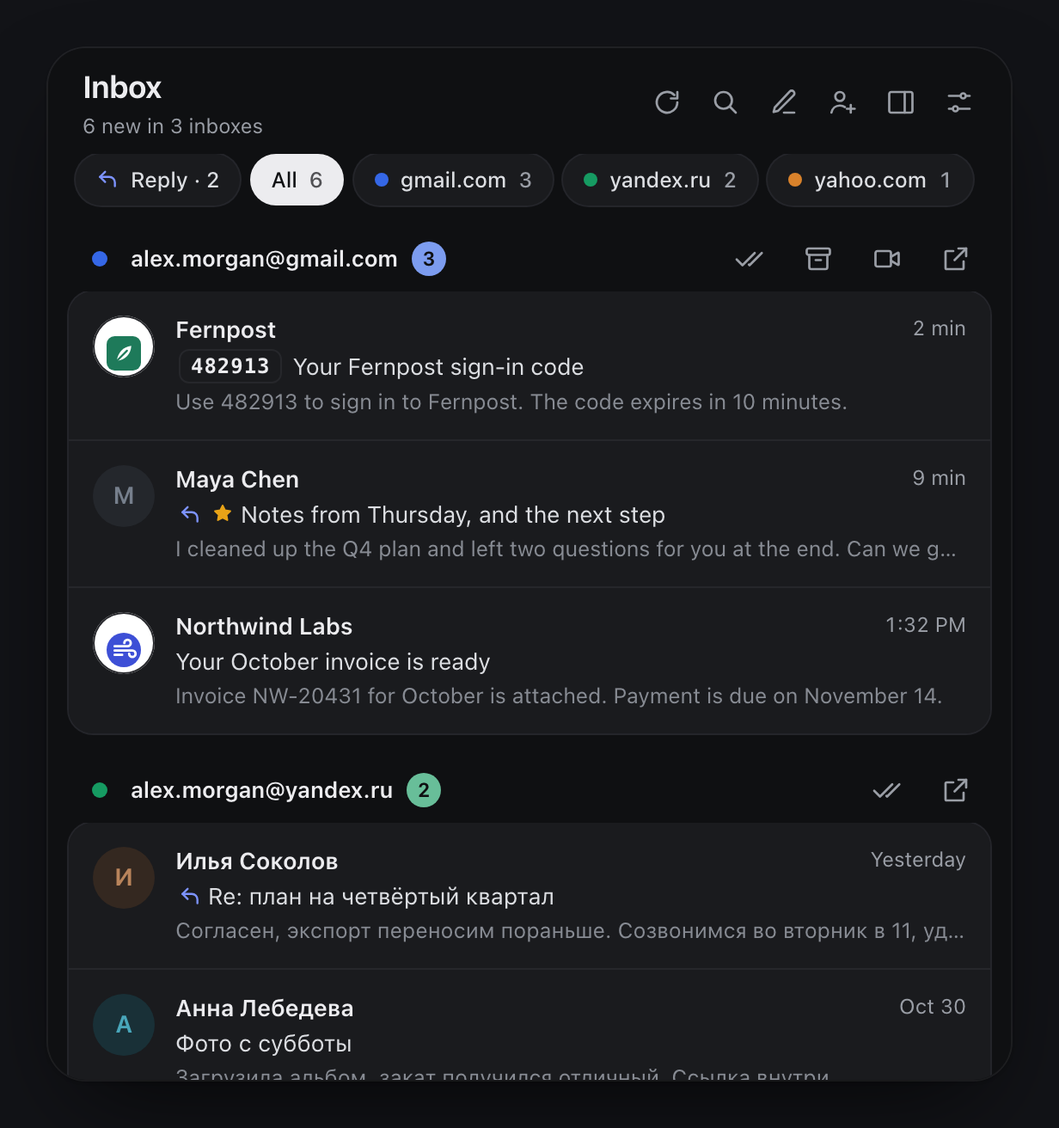
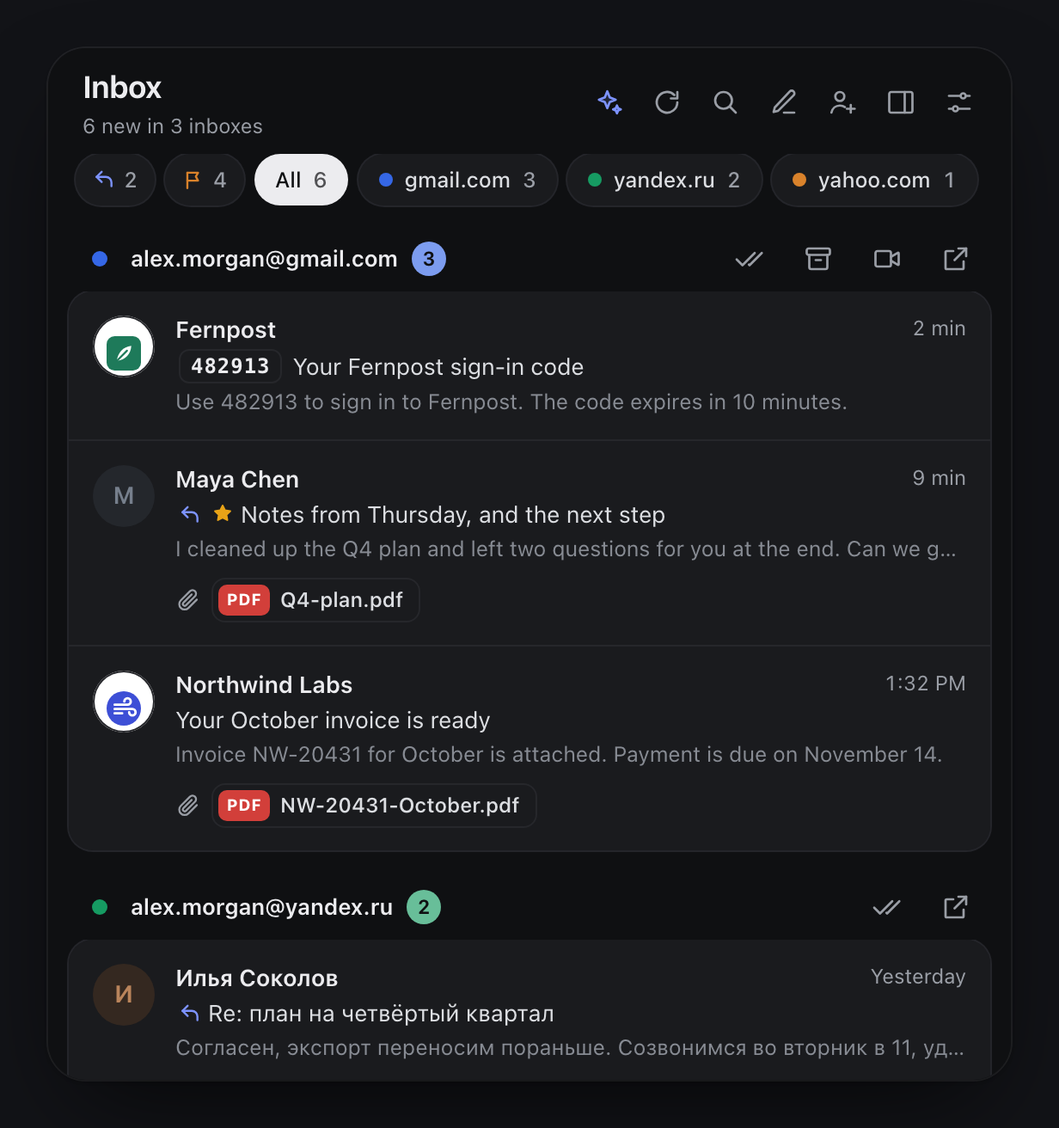
README, landing page and privacy policy for the assistant, the ChatGPT plan, Z.ai and attachments
What the assistant does and where it runs, what each request sends, the ChatGPT sign-in and
its loopback callback that never reaches the network, Z.ai, why a Claude subscription cannot
be used, and the attachments read ahead for the list. New pictures of the assistant, and the
list and reader with attachments and the sorting chips.

diff --git a/docs/privacy.html b/docs/privacy.html
@@ -30,14 +30,15 @@
 
   <main class="doc wrap">
     <h1>Privacy policy</h1>
-    <p class="date">Last updated: 2026-11-01</p>
+    <p class="date">Last updated: 2026-11-02</p>
 
-    <p>Mail Deck has no servers, no analytics and no tracking. Nothing it reads leaves your browser except the requests it sends to the mail services themselves: to Google for Gmail, and to each other mail service you turn on. If you turn on the AI assistant with your own OpenAI or Anthropic key, the mail you ask about also goes to that provider, as described below.</p>
+    <p>Mail Deck has no servers, no analytics and no tracking. Nothing it reads leaves your browser except the requests it sends to the mail services themselves: to Google for Gmail, and to each other mail service you turn on. If you turn on the AI assistant with your ChatGPT plan or your own Anthropic, OpenAI or Z.ai key, the mail it works on also goes to that provider, as described below.</p>
 
     <h2>What it reads from Gmail</h2>
     <ul>
       <li><strong>Unread mail.</strong> Mail Deck reads the Gmail Atom feed (<code>mail.google.com/mail/u/N/feed/atom</code>) for each Google account you are signed in to in this browser. The browser sends your existing Google session cookies with those requests. Mail Deck never asks for, sees or stores your password.</li>
       <li><strong>Message text.</strong> When you open a message in the panel, or point at it, Mail Deck loads that conversation’s print view from <code>mail.google.com</code> and shows it in the panel, with links to its attachments.</li>
+      <li><strong>Attachments.</strong> To show a message’s files on its line in the list before you open it, Mail Deck loads the print view of each Gmail conversation the list shows, two at a time, and reads only the names and links of its attachments. Loading it does not mark the mail as read, and its pictures are not loaded. The names and links are kept in session storage until the browser closes.</li>
       <li><strong>Gmail search.</strong> When the panel opens, Mail Deck asks Gmail’s own search on <code>mail.google.com</code> for the unread mail of each inbox, to show which mail is starred and the mail past the 20 the feed lists. When you type in the panel’s search field, that query goes to the same search of each of your inboxes.</li>
       <li><strong>Account pictures.</strong> About once a week Mail Deck loads each signed-in account’s Gmail page from <code>mail.google.com</code> to find that account’s own picture, which the panel then shows from Google’s image server (<code>lh3.googleusercontent.com</code>).</li>
       <li><strong>Gmail’s action token.</strong> To mark mail as read, archive, delete or report spam, Mail Deck reads the <code>GMAIL_AT</code> cookie that Gmail sets for <code>mail.google.com</code> and sends it back to <code>mail.google.com</code> with the action, the same way the Gmail web page does.</li>
@@ -60,15 +61,33 @@
     <h2>The page you are on</h2>
     <p>When you open the panel with its toolbar button or its keyboard shortcut, Chrome lets Mail Deck read the address of the tab you are on, for that tab only (the <code>activeTab</code> permission). Mail Deck takes the site’s domain from it and shows, at the top of the panel, the unread mail whose sender is that site, with a one-time code ready to copy. The comparison happens inside the panel. The address is not stored and is not sent anywhere. In the side panel this works only for tabs on which you used the toolbar button.</p>
     <h2>AI assistant</h2>
-    <p>The AI assistant is off until you turn it on in Settings → AI. It can summarize the conversation you are reading, with its key points, what it asks of you and its dates (with links that open Google Calendar’s own “new event” page), and it can mark unread mail that waits for your reply. You choose where it runs:</p>
+    <p>The AI assistant is off until you turn it on. Its buttons show in the panel from the start and, while it is off, only offer to turn it on (Settings → AI can hide them): nothing is sent to any provider before you choose one. Once on, it can:</p>
     <ul>
-      <li><strong>On this computer.</strong> Chrome’s built-in model runs on your device, and nothing is sent anywhere. Chrome downloads the model from Google once, when you press Download.</li>
-      <li><strong>OpenAI or Anthropic, with your own API key.</strong> When you connect a provider, Chrome asks you to allow its site (<code>api.openai.com</code> or <code>api.anthropic.com</code>); until then Mail Deck sends it nothing. Requests go from your browser straight to that provider, with your key; Mail Deck has no servers in between. A summary sends the text of that conversation (sender names, dates and message text) with its subject, and the current date, time and time zone so that dates such as “tomorrow at 3” can be read. It is sent when you press Summary, or by itself for long mail if you chose that. “Waiting for your reply” sends the sender, subject and preview of unread mail from the last 14 days, up to 20 messages at a time, and leaves out mail from automated senders such as no-reply addresses. The provider handles this data under its own terms for API use: <a href="https://openai.com/policies/row-privacy-policy/">OpenAI</a>, <a href="https://www.anthropic.com/legal/privacy">Anthropic</a>.</li>
+      <li>summarize the conversation you are reading, with its key points, what it asks of you and its dates (with links that open Google Calendar’s own “new event” page);</li>
+      <li>draft a reply to it, answer a question about it, or translate it;</li>
+      <li>take a request in your own words in the assistant (“when is my flight?”, “invoices from October”, “write to Anna that…”): find the mail with Gmail’s search in your accounts and among the other services’ unread mail, answer from what it found, sum up your unread mail, or draft a new mail;</li>
+      <li>sort unread mail into mail waiting for your reply, important mail, and newsletters you can clear without reading.</li>
     </ul>
-    <p>Your API key is kept only in this browser’s extension storage on your device (<code>chrome.storage.local</code>). It is never part of a settings backup or of Chrome sync, and it is sent only to its own provider. Disconnect removes the key and Chrome’s access to the provider. Summaries are kept in session storage, in memory only, until the browser closes. Whether a mail waits for your reply (yes or no, and a few words why) is kept on your device for 30 days, so the same mail is not sent again.</p>
+    <p>A draft only ever opens in your mail service’s compose window, or is copied: the assistant never sends mail for you.</p>
+    <p>You choose where it runs:</p>
+    <ul>
+      <li><strong>On this computer.</strong> Chrome’s built-in model runs on your device, and nothing is sent anywhere. Chrome downloads the model from Google once, from your click.</li>
+      <li><strong>Your ChatGPT plan.</strong> <strong>Continue with ChatGPT</strong> signs in with OpenAI’s official “Sign in with ChatGPT” for open-source apps (OAuth with PKCE). Chrome first asks you to allow <code>auth.openai.com</code> and <code>api.openai.com</code>, and <code>127.0.0.1</code>; until then Mail Deck sends OpenAI nothing. OpenAI sends you back to <code>http://127.0.0.1:1455/auth/callback</code> after you sign in, an address on your own computer where nothing listens: a Chrome rule (<code>declarativeNetRequest</code>, for that one address, removed when the sign-in ends or after 15 minutes) takes that visit to Mail Deck’s own page instead, so the sign-in code never reaches the network or any program on your computer, and Mail Deck then gives back its access to <code>127.0.0.1</code>. Mail Deck checks the identity token against OpenAI’s published keys and keeps the tokens OpenAI issues (an access token renewed every hour, a refresh token and the identity token), with your account’s email address, shown to say which account is signed in, and an account id it does not show. Requests then go to <code>api.openai.com</code> with them, and use the usage included in your ChatGPT plan, which you manage in ChatGPT’s settings. Signing out revokes the sign-in at OpenAI, deletes the tokens here and gives back Chrome’s access to <code>auth.openai.com</code> (and to <code>api.openai.com</code>, unless an OpenAI key still uses it); if OpenAI does not confirm the revocation, Mail Deck says so, and you can disconnect it in your ChatGPT settings.</li>
+      <li><strong>Anthropic, OpenAI or Z.ai, with your own API key.</strong> When you connect a provider, Chrome asks you to allow its site (<code>api.anthropic.com</code>, <code>api.openai.com</code> or <code>api.z.ai</code>); until then Mail Deck sends it nothing.</li>
+    </ul>
+    <p>Requests go from your browser straight to that provider; Mail Deck has no servers in between. Each request sends only what it needs, with the current date, time and time zone so that dates such as “tomorrow at 3” can be read:</p>
+    <ul>
+      <li>a summary, a reply, a translation or a question about a mail: the text of that conversation (sender names, dates and message text) and its subject, when you ask (or, for summaries, by itself for long mail if you chose that);</li>
+      <li>a request to the assistant: your words, then the sender, subject, date and text of the first few mails the search found and the sender, subject and preview of the rest, up to 30;</li>
+      <li>“what’s important”: the sender, subject and preview of your unread mail, up to 60;</li>
+      <li>sorting: the sender, subject and preview of unread mail from the last 14 days, 20 messages at a time, from senders other than your own addresses.</li>
+    </ul>
+    <p>The provider handles this data under its own terms: <a href=“https://openai.com/policies/row-privacy-policy/”>OpenAI</a>, <a href=“https://www.anthropic.com/legal/privacy”>Anthropic</a>, <a href=“https://docs.z.ai/legal-agreement/privacy-policy”>Z.ai</a>.</p>
+    <p>Your API keys and the ChatGPT sign-in (its tokens, the app id OpenAI issued to this browser, an anonymous random id of this browser that OpenAI asks for, and your account’s email address) are kept only in this browser’s extension storage on your device (<code>chrome.storage.local</code>). They are never part of a settings backup or of Chrome sync, never shown in diagnostics, and sent only to their own provider. Disconnect removes them and Chrome’s access to the provider. Summaries are kept in session storage, in memory only, until the browser closes, and so is the assistant’s conversation. How a mail was sorted (waiting for a reply, important or newsletter, and a few words why) is kept on your device for 30 days, so the same mail is not sent again.</p>
+    <p>Translation by Chrome’s own translator (<strong>Translate from …</strong> in an open message) runs on your computer and needs no assistant: Chrome may download a language pack from Google once, from your click, and nothing of the mail leaves your device.</p>
 
     <h2>Where it goes</h2>
-    <p>To the mail services themselves: <code>mail.google.com</code> for Gmail, and the sites above for each other service you turn on. A service’s mail, addresses and tokens go only to that service. To the AI provider you connected, if you did, as described above. And to Google in two more cases:</p>
+    <p>To the mail services themselves: <code>mail.google.com</code> for Gmail, and the sites above for each other service you turn on. A service’s mail, addresses and tokens go only to that service. To the AI provider you chose, if you did, as described above. And to Google in two more cases:</p>
     <ul>
       <li><strong>Sender icons.</strong> For mail in your Gmail inboxes, the panel shows the sender’s site icon from Google’s icon service (<code>www.google.com/s2/favicons</code>), which receives the sender’s domain, such as <code>github.com</code>, never an address or a message. Like any request your browser makes to Google, it may carry your Google cookies. Mail of the other services gets no icon from Google. “Show sender logos” in settings turns this off.</li>
       <li><strong>Chrome sync.</strong> If you turn on the settings copy in Chrome sync, your Mail Deck settings are stored with <code>chrome.storage.sync</code>, which Chrome keeps in your Google account like your other synced data. It is off by default.</li>

diff --git a/docs/index.html b/docs/index.html
@@ -121,9 +121,9 @@
     <section class="block wrap">
       <h2>A closer look</h2>
       <div class="screens">
-        <img src="images/screens/2-summary.webp" width="1280" height="800" loading="lazy" alt="An open message with its AI summary above it: the key points, a thing to do, and two dates, each with Add to Google Calendar">
-        <img src="images/screens/3-site.webp" width="1280" height="800" loading="lazy" alt="The panel opened over a website: that site’s mail on top, from two inboxes, with its sign-in code ready to copy">
-        <img src="images/screens/4-later.webp" width="1280" height="800" loading="lazy" alt="The Remind me later menu over a message">
+        <img src="images/screens/2-assistant.webp" width="1280" height="800" loading="lazy" alt="The AI assistant: what is important in the unread mail, with a numbered link to each mail, and an answer about a plan review">
+        <img src="images/screens/3-reply.webp" width="1280" height="800" loading="lazy" alt="An open message with Reply with AI: quick choices and a drafted reply, ready to open in Gmail">
+        <img src="images/screens/4-site.webp" width="1280" height="800" loading="lazy" alt="The panel opened over a website: that site’s mail on top, from two inboxes, with its sign-in code ready to copy">
       </div>
     </section>
 
@@ -137,6 +137,10 @@
         <li>
           <h3>Read in place</h3>
           <p>A Gmail conversation opens whole in the panel, attachments included. Mail from Yahoo, AOL, Yandex and Mail.ru opens there too; Proton’s opens on Proton’s site.</p>
+        </li>
+        <li>
+          <h3>Attachments you can’t miss</h3>
+          <p>A Gmail message’s files show on its line before you open it, tagged PDF, sheet or picture; a click opens the file alone. The open message lists them under the sender, with Download.</p>
         </li>
         <li>
           <h3>Mail from the site you’re on</h3>
@@ -186,14 +190,16 @@
       <div class="works">
         <ul class="services">
           <li>Chrome’s built-in model</li>
-          <li>OpenAI</li>
+          <li>ChatGPT plan</li>
           <li>Anthropic</li>
+          <li>OpenAI</li>
+          <li>Z.ai GLM</li>
         </ul>
-        <p>Off until you turn it on in Settings → AI. In an open message, Summary puts the conversation in a few lines above it: the key points, what it asks of you, and its dates, each with a link that adds it to Google Calendar. Waiting for your reply gathers, under one chip, the unread mail from people who expect an answer.</p>
-        <p>Chrome’s built-in model is free and runs on your computer, so your mail stays there; not every computer can run it. Or connect your own OpenAI or Anthropic API key, billed by the provider per use: a ChatGPT Plus or Claude Pro subscription does not include API access. Requests then go from your browser straight to that provider, with no servers of ours in between, and the key stays on this computer.</p>
+        <p>Ask your mail in plain words: “when is my flight?”, “what did Anna say about the budget?”, “invoices from October”. The assistant searches every Gmail account, reads what it finds and answers with numbered references to each mail. “What’s important?” sums up your unread mail, and “write to Anna that…” drafts a new mail to open in Gmail. In an open message it summarizes the conversation with its dates for Google Calendar, drafts a reply in the thread’s language, and answers questions about it. Unread mail is sorted into waiting for your reply, important, and newsletters you can clear in one go.</p>
+        <p>Its buttons are there from the start and offer to turn it on; nothing is sent until you do. Chrome’s built-in model is free and runs on your computer, so your mail stays there. Or sign in with your ChatGPT plan through OpenAI’s official Sign in with ChatGPT, or use your own Anthropic, OpenAI or Z.ai API key. Requests go from your browser straight to that provider, with no servers of ours in between, and keys and sign-ins stay on this computer. A foreign-language message gets Translate, by Chrome’s own translator, with no assistant needed.</p>
         <picture class="shot">
-          <source media="(prefers-color-scheme: dark)" srcset="images/ai-dark.webp">
-          <img src="images/ai-light.webp" width="1472" height="1372" loading="lazy" decoding="async" alt="Settings → AI: Off, On this computer (chosen, and ready), or your own OpenAI or Anthropic API key; the summary comes on click, and Waiting for your reply is on">
+          <source media="(prefers-color-scheme: dark)" srcset="images/assist-dark.webp">
+          <img src="images/assist-light.webp" width="1712" height="1312" loading="lazy" decoding="async" alt="The AI assistant: what is important in the unread mail, with numbered references to each mail, and an answer about the Q4 plan review">
         </picture>
       </div>
     </section>
@@ -210,6 +216,7 @@
         <li><kbd>B</kbd>Remind me later</li>
         <li><kbd>C</kbd>Copy the code</li>
         <li><kbd>I</kbd>Summary</li>
+        <li><kbd>A</kbd>Ask the assistant</li>
         <li><kbd>/</kbd>Search</li>
         <li><kbd>O</kbd>Open in the web app</li>
         <li><kbd>J</kbd>Next message</li>

diff --git a/README.md b/README.md
@@ -28,8 +28,9 @@ Gmail, Yahoo Mail, AOL Mail, Proton Mail, Yandex Mail and Mail.ru. Read, archive
 - **Fast.** Every mailbox is checked at the same time, a Gmail message is fetched while you point at it, and the panel opens again without asking any mail service anything.
 - **Read in place.** Click a message to read it in the panel: a Gmail conversation whole, attachments included, and mail from Yahoo, AOL, Yandex and Mail.ru too. Proton mail opens on Proton's site. <kbd>J</kbd> and <kbd>K</kbd> go to the next and previous message without going back to the list.
 - **Mail from this site.** Open the panel on a web page and that site's unread mail is at the top, from every inbox, with a fresh sign-in code ready to copy. [More below](#mail-from-this-site).
+- **Attachments in plain sight.** A Gmail message's files show on its line before you open it, each with a coloured tag of its kind (PDF, sheet, picture…); a click opens the file without the mail. The open message lists them under the sender, with Download.
 - **Sign-in codes.** A mail that carries a one-time code shows it as a pill before the subject and in the open message. A click or <kbd>C</kbd> copies the digits; the mail is not opened, marked or moved.
-- **AI assistant, if you want one.** A summary of the conversation you are reading, and a chip that gathers the mail waiting for your reply. It runs with Chrome's built-in model on this computer, or with your own OpenAI or Anthropic API key, and is off until you turn it on. [More below](#ai-assistant).
+- **AI assistant, if you want one.** Ask your mail anything in plain words (“when is my flight?”, “invoices from October”), get what is important in your unread mail, have replies and new mail drafted, mail translated and summarized, and unread mail sorted into waiting for your reply, important and newsletters to clear at once. It runs with Chrome's built-in model on this computer, your ChatGPT plan, or your own Anthropic, OpenAI or Z.ai API key, and stays off until you turn it on. [More below](#ai-assistant).
 - **Search every Gmail inbox.** One search runs in all your Google accounts at once.
 - **Later.** Put a message away until this evening, tomorrow or next week; it comes back with a notification.
 - **One key per action.** Mark as read, archive, delete or report spam from the list, from the open message or from a notification. If you like, the next message opens by itself after an action.
@@ -39,7 +40,7 @@ Gmail, Yahoo Mail, AOL Mail, Proton Mail, Yandex Mail and Mail.ru. Read, archive
 - **Notifications and sound.** A desktop notification and an optional sound for new mail. A notification about one inbox has its address as the title, and your own notification text can name it with `[account]`. It can come back every 5 to 60 minutes while the mail stays unread. Mute an inbox while it stays in the panel, set quiet hours and a quiet weekend, or notify only for, or never for, chosen senders and subjects.
 - **Your count.** Leave an inbox out of the number on the toolbar icon while it stays in the panel, or have the number count only the mail that came since you last opened the panel.
 - **Side panel and keyboard.** Keep the deck open beside the page, or open it with Alt+Shift+M. Text size is yours to set.
-- **Backup.** Export your settings to a file, or keep a copy in Chrome sync. An AI key is never in either.
+- **Backup.** Export your settings to a file, or keep a copy in Chrome sync. An AI key or sign-in is never in either.
 - **Light and dark.** The panel and the settings follow your system theme.
 - **Nothing in between.** No servers, no analytics. The extension talks only to Google and to the mail services you turn on, with the session your browser already has, and never sees your password. The AI assistant adds the one provider you connect, if you connect one.
 
@@ -60,15 +61,19 @@ Chrome lets the panel read the tab's address when you open it (the `activeTab` p
 
 ## AI assistant
 
-Off until you turn it on in **Settings → AI**. It does two things:
+Its buttons are in view from the start (the ✨ in the header, **Sort with AI**, and **Summary**, **Reply with AI** and **Ask** in an open message), and the first click offers to turn it on. Nothing is sent anywhere until you do. **Settings → AI** has a switch to hide the buttons while it is off.
 
-- **Summary.** In an open message, **Summary** (or <kbd>I</kbd>) puts a card above the conversation: its key points, what it asks of you, and its dates, each with an **Add to Google Calendar** link. It fills in as the answer arrives, can be copied, asked again or hidden, and is kept for the session, so the same mail shows it at once next time. A long conversation is summarized from its newest messages, and the card says so. Summaries come on click (the default) or by themselves for long mail. Proton mail, which opens on Proton's site, has none.
-- **Waiting for your reply.** Unread mail from people who expect an answer from you gets a mark, with the reason in its tooltip, and a **Reply** chip, first among the chips, narrows the list to it. Mail from no-reply and other automated addresses or from your own, and mail older than 14 days, are left out. Each answer is kept on this computer for 30 days, so a mail is asked about once.
+- **Ask your mail.** The ✨ button (or <kbd>A</kbd>) opens the assistant. Type a question or a search in plain words: “when is my flight to Rome?”, “what did Anna say about the budget?”, “invoices from October”, “mail with attachments this week”. It turns that into a Gmail search across all your accounts (and looks through the other services' unread mail), reads the first few mails it finds, and answers with numbered references; a number opens its mail, and <kbd>J</kbd>/<kbd>K</kbd> walk the mail it found. “What's important?” sums up your unread mail: what needs you soon first, newsletters in one line. The search field has **Ask AI** for the same.
+- **Write.** “Write to Anna that the meeting moves to Friday” drafts a new mail with its address, subject and text, to change and then open in Gmail's compose window. In an open message, **Reply with AI** drafts a reply in the thread's language and tone, from a quick choice (Yes, Decline politely, Ask for details, Thank them) or your own words; **Open in Gmail** puts it in the compose window, ready to send. Nothing is ever sent for you.
+- **Summary.** **Summary** (or <kbd>I</kbd>) puts a card above the conversation: its key points, what it asks of you, and its dates, each with an **Add to Google Calendar** link. It fills in as the answer arrives, can be copied, asked again or hidden, and is kept for the session. Summaries come on click (the default) or by themselves for long mail.
+- **Ask about this mail.** **Ask** (or <kbd>A</kbd> in an open message) answers a question about the conversation you are reading.
+- **Translate.** A message in another language than Chrome's gets **Translate from …**: Chrome's own translator turns it into your language where it stands, on this computer and free, with **Show original** to go back; it needs no engine. Where Chrome has no translator for that language, the assistant translates it.
+- **Sort unread mail.** Unread mail gets chips: **Reply** (people who expect an answer from you, each marked with the reason), **Important** (deadlines, payments, travel, alerts about your accounts) and **Newsletters** (mail you can clear without reading). A chip narrows the list to that mail, with **Mark all read** and **Archive all** above it. Mail from your own addresses and mail older than 14 days are left out; each answer is kept on this computer for 30 days, so a mail is asked about once.
 
 <p align="center">
   <picture>
-    <source media="(prefers-color-scheme: dark)" srcset="docs/images/ai-dark.png">
-    <img src="docs/images/ai-light.png" alt="Settings → AI: Off, On this computer (chosen, and ready), or your own OpenAI or Anthropic API key; the summary comes on click, and Waiting for your reply is on" width="520">
+    <source media="(prefers-color-scheme: dark)" srcset="docs/images/assist-dark.png">
+    <img src="docs/images/assist-light.png" alt="The AI assistant: what is important in the unread mail, with numbered references to each mail, and an answer about the Q4 plan review" width="620">
   </picture>
 </p>
 
@@ -76,11 +81,13 @@ Choose where it runs:
 
 | Engine | Cost | What leaves this computer |
 |---|---|---|
-| **On this computer**: Chrome's built-in model | free | nothing: the model runs in Chrome, offline. Chrome downloads it once (a few gigabytes) when you press Download. It needs Chrome 138 or newer and a computer that can run it; Settings → AI says whether yours can. Where it does not support your language yet, it answers in English. |
-| **OpenAI**, with your own API key | billed by OpenAI, per use | a summary sends that conversation's text and subject; Waiting for your reply sends the sender, subject and preview of unread mail, up to 20 at a time. Straight from your browser to `api.openai.com`. |
-| **Anthropic**, with your own API key | billed by Anthropic, per use | the same, to `api.anthropic.com`. |
+| **On this computer**: Chrome's built-in model | free | nothing: the model runs in Chrome, offline. Chrome downloads it once (a few gigabytes) from your click, in the panel or in Settings. It needs Chrome 138 or newer and a computer that can run it; Mail Deck says whether yours can. Where it does not support your language yet, it answers in English. |
+| **ChatGPT plan**: Plus or Pro | included in your plan | **Continue with ChatGPT** signs in with OpenAI's official [Sign in with ChatGPT](https://developers.openai.com/siwc) for open-source apps; requests then use the usage included in your plan (on Plus, its five-hour limit is shared with ChatGPT's other apps; **Manage usage** opens it). What a request needs goes to `api.openai.com`. |
+| **Anthropic**, **OpenAI** or **Z.ai** (GLM), with your own API key | billed by the provider, per use | what a request needs, straight from your browser to `api.anthropic.com`, `api.openai.com` or `api.z.ai`. |
 
-A ChatGPT Plus or Claude Pro subscription does not include API access: a key comes from [platform.openai.com](https://platform.openai.com/api-keys) or [console.anthropic.com](https://console.anthropic.com/settings/keys) and is billed separately. **Connect** asks Chrome for that provider's site alone, checks the key and lists its models, the recommended ones first. **Disconnect** forgets the key and gives the access back. The key stays in this browser's extension storage: never in a backup, in Chrome sync or in diagnostics. There are no servers of ours in between, and the answer is shown as plain text. The details are in the [privacy policy](PRIVACY.md#ai-assistant).
+What a request needs: a summary, a reply, a translation or a question about a mail sends that conversation's text and subject; a question to the assistant sends your words, then the sender, subject, date and text of the first few mails the search found (the rest by their preview); “what's important” sends the sender, subject and preview of your unread mail; sorting sends the sender, subject and preview of unread mail, 20 at a time.
+
+A Claude Pro or Max subscription cannot be used here: Anthropic allows it only in its own apps, so Claude takes an API key from [console.anthropic.com](https://console.anthropic.com/settings/keys). A Z.ai key comes from [z.ai](https://docs.z.ai/guides/overview/quick-start) (a GLM Coding Plan key works only in coding tools). **Connect** asks Chrome for that provider's site alone, checks the key and lists its models, the recommended ones first; **Disconnect** forgets the key, or signs out of ChatGPT, and gives the access back. Keys and the ChatGPT sign-in stay in this browser's extension storage: never in a backup, in Chrome sync or in diagnostics. There are no servers of ours in between, and answers are shown as plain text. The details are in the [privacy policy](PRIVACY.md#ai-assistant).
 
 ## Other mail services
 
@@ -165,6 +172,7 @@ None of these services has a public interface for this, so Mail Deck follows the
 | <kbd>C</kbd> | <kbd>C</kbd> | Copy the one-time code: the open message's, the focused line's, or else the site's at the top |
 | | <kbd>S</kbd> | Star (Gmail) |
 | | <kbd>I</kbd> | Show or hide the summary (AI assistant) |
+| | <kbd>A</kbd> | The AI assistant; in an open message, a question about it |
 | <kbd>Z</kbd> | <kbd>Z</kbd> | Undo the last action |
 | <kbd>/</kbd> | | Search every Gmail inbox |
 | <kbd>Alt</kbd>+<kbd>↑</kbd> / <kbd>↓</kbd> | | Move the inbox of the focused line up or down |
@@ -192,7 +200,8 @@ extension/            the extension (load this folder unpacked)
   core/services/      the other mail services, one file each: Yahoo, AOL, Proton, Yandex, Mail.ru
   core/services.js    runs them: their permissions, the Origin rules, their mailboxes in the check
   data/panel/         the toolbar panel
-  data/ai/ai.js       the AI assistant: the three engines, summaries, waiting for your reply
+  data/ai/ai.js       the AI assistant: the engines, summaries, sorting, the assistant's plans, answers, drafts and translations
+  data/ai/callback.*  where Sign in with ChatGPT comes back to
   data/settings/      the settings page
   _locales/           translations
 store/                Chrome Web Store listing text and images
@@ -208,7 +217,7 @@ Mail comes from Gmail's Atom feed of each signed-in account, the full text from 
 
 Each of the other services is one file in `extension/core/services/` with the same shape: its `name`, the sites it needs (`origins`), its `signIn` and `compose` links, what it `can` do (`archive`, `spam`, `body`), and `collect`, `action` and `body`, which talk to the service the way its web app does. `extension/core/services.js` checks only the services turned on and granted, sets the Origin rules and hands their mailboxes to the check, so the panel takes them like Gmail's. `tools/test/services.test.js` tests that runner, and `tools/test/services/` has one test per service against a fake of it, so no account is needed.
 
-The AI assistant is `extension/data/ai/ai.js` (`self.AI`), loaded by the panel and the settings page. It calls Chrome's Prompt API or each provider's HTTP API with `fetch` and streaming, with no SDK, and turns every failure into a short `AIError`. `tools/test/ai.test.js` tests it against mocked streams, with no network.
+The AI assistant is `extension/data/ai/ai.js` (`self.AI`), loaded by the panel and the settings page. It calls Chrome's Prompt API or each provider's HTTP API with `fetch` and streaming, with no SDK, and turns every failure into a short `AIError`. Sign in with ChatGPT is OAuth with PKCE: its loopback callback never reaches the network, a session rule of `declarativeNetRequest` sends it to `data/ai/callback.html`. `tools/test/ai.test.js` tests it all against mocked streams, with no network.
 
 There is no build step: edit a file, then reload the extension on `chrome://extensions`.
 
@@ -222,4 +231,4 @@ tools/package.sh      # dist/mail-deck-<version>.zip
 
 [Mozilla Public License 1.1](LICENSE). Mail Deck grew out of Notifier for Gmail by InBasic; see [NOTICE.md](extension/NOTICE.md). The mail services in `extension/core/services/` adapt code from other open-source projects under MPL-2.0, MIT and Apache-2.0; each file names its sources and their licence at the top.
 
-Mail Deck is not made by or affiliated with Google, Yahoo, AOL, Proton, Yandex, VK, OpenAI or Anthropic. Gmail is a trademark of Google LLC; the other names belong to their owners.
+Mail Deck is not made by or affiliated with Google, Yahoo, AOL, Proton, Yandex, VK, OpenAI, Anthropic or Z.ai. Gmail is a trademark of Google LLC; the other names belong to their owners.

diff --git a/PRIVACY.md b/PRIVACY.md
@@ -1,13 +1,14 @@
 # Mail Deck: privacy policy
 
-Last updated: 2026-11-01
+Last updated: 2026-11-02
 
-Mail Deck has no servers, no analytics and no tracking. Nothing it reads leaves your browser except the requests it sends to the mail services themselves: to Google for Gmail, and to each other mail service you turn on. If you turn on the AI assistant with your own OpenAI or Anthropic key, the mail you ask about also goes to that provider, as described below.
+Mail Deck has no servers, no analytics and no tracking. Nothing it reads leaves your browser except the requests it sends to the mail services themselves: to Google for Gmail, and to each other mail service you turn on. If you turn on the AI assistant with your ChatGPT plan or your own Anthropic, OpenAI or Z.ai key, the mail it works on also goes to that provider, as described below.
 
 ## What it reads from Gmail
 
 - **Unread mail.** Mail Deck reads the Gmail Atom feed (`mail.google.com/mail/u/N/feed/atom`) for each Google account you are signed in to in this browser. The browser sends your existing Google session cookies with those requests. Mail Deck never asks for, sees or stores your password.
 - **Message text.** When you open a message in the panel, or point at it, Mail Deck loads that conversation's print view from `mail.google.com` and shows it in the panel, with links to its attachments.
+- **Attachments.** To show a message's files on its line in the list before you open it, Mail Deck loads the print view of each Gmail conversation the list shows, two at a time, and reads only the names and links of its attachments. Loading it does not mark the mail as read, and its pictures are not loaded. The names and links are kept in session storage until the browser closes.
 - **Gmail search.** When the panel opens, Mail Deck asks Gmail's own search on `mail.google.com` for the unread mail of each inbox, to show which mail is starred and the mail past the 20 the feed lists. When you type in the panel's search field, that query goes to the same search of each of your inboxes.
 - **Account pictures.** About once a week Mail Deck loads each signed-in account's Gmail page from `mail.google.com` to find that account's own picture, which the panel then shows from Google's image server (`lh3.googleusercontent.com`).
 - **Gmail's action token.** To mark mail as read, archive, delete or report spam, Mail Deck reads the `GMAIL_AT` cookie that Gmail sets for `mail.google.com` and sends it back to `mail.google.com` with the action, the same way the Gmail web page does.
@@ -34,16 +35,37 @@ When you open the panel with its toolbar button or its keyboard shortcut, Chrome
 
 ## AI assistant
 
-The AI assistant is off until you turn it on in Settings → AI. It can summarize the conversation you are reading, with its key points, what it asks of you and its dates (with links that open Google Calendar's own "new event" page), and it can mark unread mail that waits for your reply. You choose where it runs:
+The AI assistant is off until you turn it on. Its buttons show in the panel from the start and, while it is off, only offer to turn it on (Settings → AI can hide them): nothing is sent to any provider before you choose one. Once on, it can:
 
-- **On this computer.** Chrome's built-in model runs on your device, and nothing is sent anywhere. Chrome downloads the model from Google once, when you press Download.
-- **OpenAI or Anthropic, with your own API key.** When you connect a provider, Chrome asks you to allow its site (`api.openai.com` or `api.anthropic.com`); until then Mail Deck sends it nothing. Requests go from your browser straight to that provider, with your key; Mail Deck has no servers in between. A summary sends the text of that conversation (sender names, dates and message text) with its subject, and the current date, time and time zone so that dates such as "tomorrow at 3" can be read. It is sent when you press Summary, or by itself for long mail if you chose that. "Waiting for your reply" sends the sender, subject and preview of unread mail from the last 14 days, up to 20 messages at a time, and leaves out mail from automated senders such as no-reply addresses. The provider handles this data under its own terms for API use: [OpenAI](https://openai.com/policies/row-privacy-policy/), [Anthropic](https://www.anthropic.com/legal/privacy).
+- summarize the conversation you are reading, with its key points, what it asks of you and its dates (with links that open Google Calendar's own "new event" page);
+- draft a reply to it, answer a question about it, or translate it;
+- take a request in your own words in the assistant ("when is my flight?", "invoices from October", "write to Anna that…"): find the mail with Gmail's search in your accounts and among the other services' unread mail, answer from what it found, sum up your unread mail, or draft a new mail;
+- sort unread mail into mail waiting for your reply, important mail, and newsletters you can clear without reading.
 
-Your API key is kept only in this browser's extension storage on your device (`chrome.storage.local`). It is never part of a settings backup or of Chrome sync, and it is sent only to its own provider. Disconnect removes the key and Chrome's access to the provider. Summaries are kept in session storage, in memory only, until the browser closes. Whether a mail waits for your reply (yes or no, and a few words why) is kept on your device for 30 days, so the same mail is not sent again.
+A draft only ever opens in your mail service's compose window, or is copied: the assistant never sends mail for you.
+
+You choose where it runs:
+
+- **On this computer.** Chrome's built-in model runs on your device, and nothing is sent anywhere. Chrome downloads the model from Google once, from your click.
+- **Your ChatGPT plan.** **Continue with ChatGPT** signs in with OpenAI's official "Sign in with ChatGPT" for open-source apps (OAuth with PKCE). Chrome first asks you to allow `auth.openai.com` and `api.openai.com`, and `127.0.0.1`; until then Mail Deck sends OpenAI nothing. OpenAI sends you back to `http://127.0.0.1:1455/auth/callback` after you sign in, an address on your own computer where nothing listens: a Chrome rule (`declarativeNetRequest`, for that one address, removed when the sign-in ends or after 15 minutes) takes that visit to Mail Deck's own page instead, so the sign-in code never reaches the network or any program on your computer, and Mail Deck then gives back its access to `127.0.0.1`. Mail Deck checks the identity token against OpenAI's published keys and keeps the tokens OpenAI issues (an access token renewed every hour, a refresh token and the identity token), with your account's email address, shown to say which account is signed in, and an account id it does not show. Requests then go to `api.openai.com` with them, and use the usage included in your ChatGPT plan, which you manage in ChatGPT's settings. Signing out revokes the sign-in at OpenAI, deletes the tokens here and gives back Chrome's access to `auth.openai.com` (and to `api.openai.com`, unless an OpenAI key still uses it); if OpenAI does not confirm the revocation, Mail Deck says so, and you can disconnect it in your ChatGPT settings.
+- **Anthropic, OpenAI or Z.ai, with your own API key.** When you connect a provider, Chrome asks you to allow its site (`api.anthropic.com`, `api.openai.com` or `api.z.ai`); until then Mail Deck sends it nothing.
+
+Requests go from your browser straight to that provider; Mail Deck has no servers in between. Each request sends only what it needs, with the current date, time and time zone so that dates such as "tomorrow at 3" can be read:
+
+- a summary, a reply, a translation or a question about a mail: the text of that conversation (sender names, dates and message text) and its subject, when you ask (or, for summaries, by itself for long mail if you chose that);
+- a request to the assistant: your words, then the sender, subject, date and text of the first few mails the search found and the sender, subject and preview of the rest, up to 30;
+- "what's important": the sender, subject and preview of your unread mail, up to 60;
+- sorting: the sender, subject and preview of unread mail from the last 14 days, 20 messages at a time, from senders other than your own addresses.
+
+The provider handles this data under its own terms: [OpenAI](https://openai.com/policies/row-privacy-policy/), [Anthropic](https://www.anthropic.com/legal/privacy), [Z.ai](https://docs.z.ai/legal-agreement/privacy-policy).
+
+Your API keys and the ChatGPT sign-in (its tokens, the app id OpenAI issued to this browser, an anonymous random id of this browser that OpenAI asks for, and your account's email address) are kept only in this browser's extension storage on your device (`chrome.storage.local`). They are never part of a settings backup or of Chrome sync, never shown in diagnostics, and sent only to their own provider. Disconnect removes them and Chrome's access to the provider. Summaries are kept in session storage, in memory only, until the browser closes, and so is the assistant's conversation. How a mail was sorted (waiting for a reply, important or newsletter, and a few words why) is kept on your device for 30 days, so the same mail is not sent again.
+
+Translation by Chrome's own translator (**Translate from …** in an open message) runs on your computer and needs no assistant: Chrome may download a language pack from Google once, from your click, and nothing of the mail leaves your device.
 
 ## Where it goes
 
-To the mail services themselves: `mail.google.com` for Gmail, and the sites above for each other service you turn on. A service's mail, addresses and tokens go only to that service. To the AI provider you connected, if you did, as described above. And to Google in two more cases:
+To the mail services themselves: `mail.google.com` for Gmail, and the sites above for each other service you turn on. A service's mail, addresses and tokens go only to that service. To the AI provider you chose, if you did, as described above. And to Google in two more cases:
 
 - **Sender icons.** For mail in your Gmail inboxes, the panel shows the sender's site icon from Google's icon service (`www.google.com/s2/favicons`), which receives the sender's domain, such as `github.com`, never an address or a message. Like any request your browser makes to Google, it may carry your Google cookies. Mail of the other services gets no icon from Google. "Show sender logos" in settings turns this off.
 - **Chrome sync.** If you turn on the settings copy in Chrome sync, your Mail Deck settings are stored with `chrome.storage.sync`, which Chrome keeps in your Google account like your other synced data. It is off by default.
